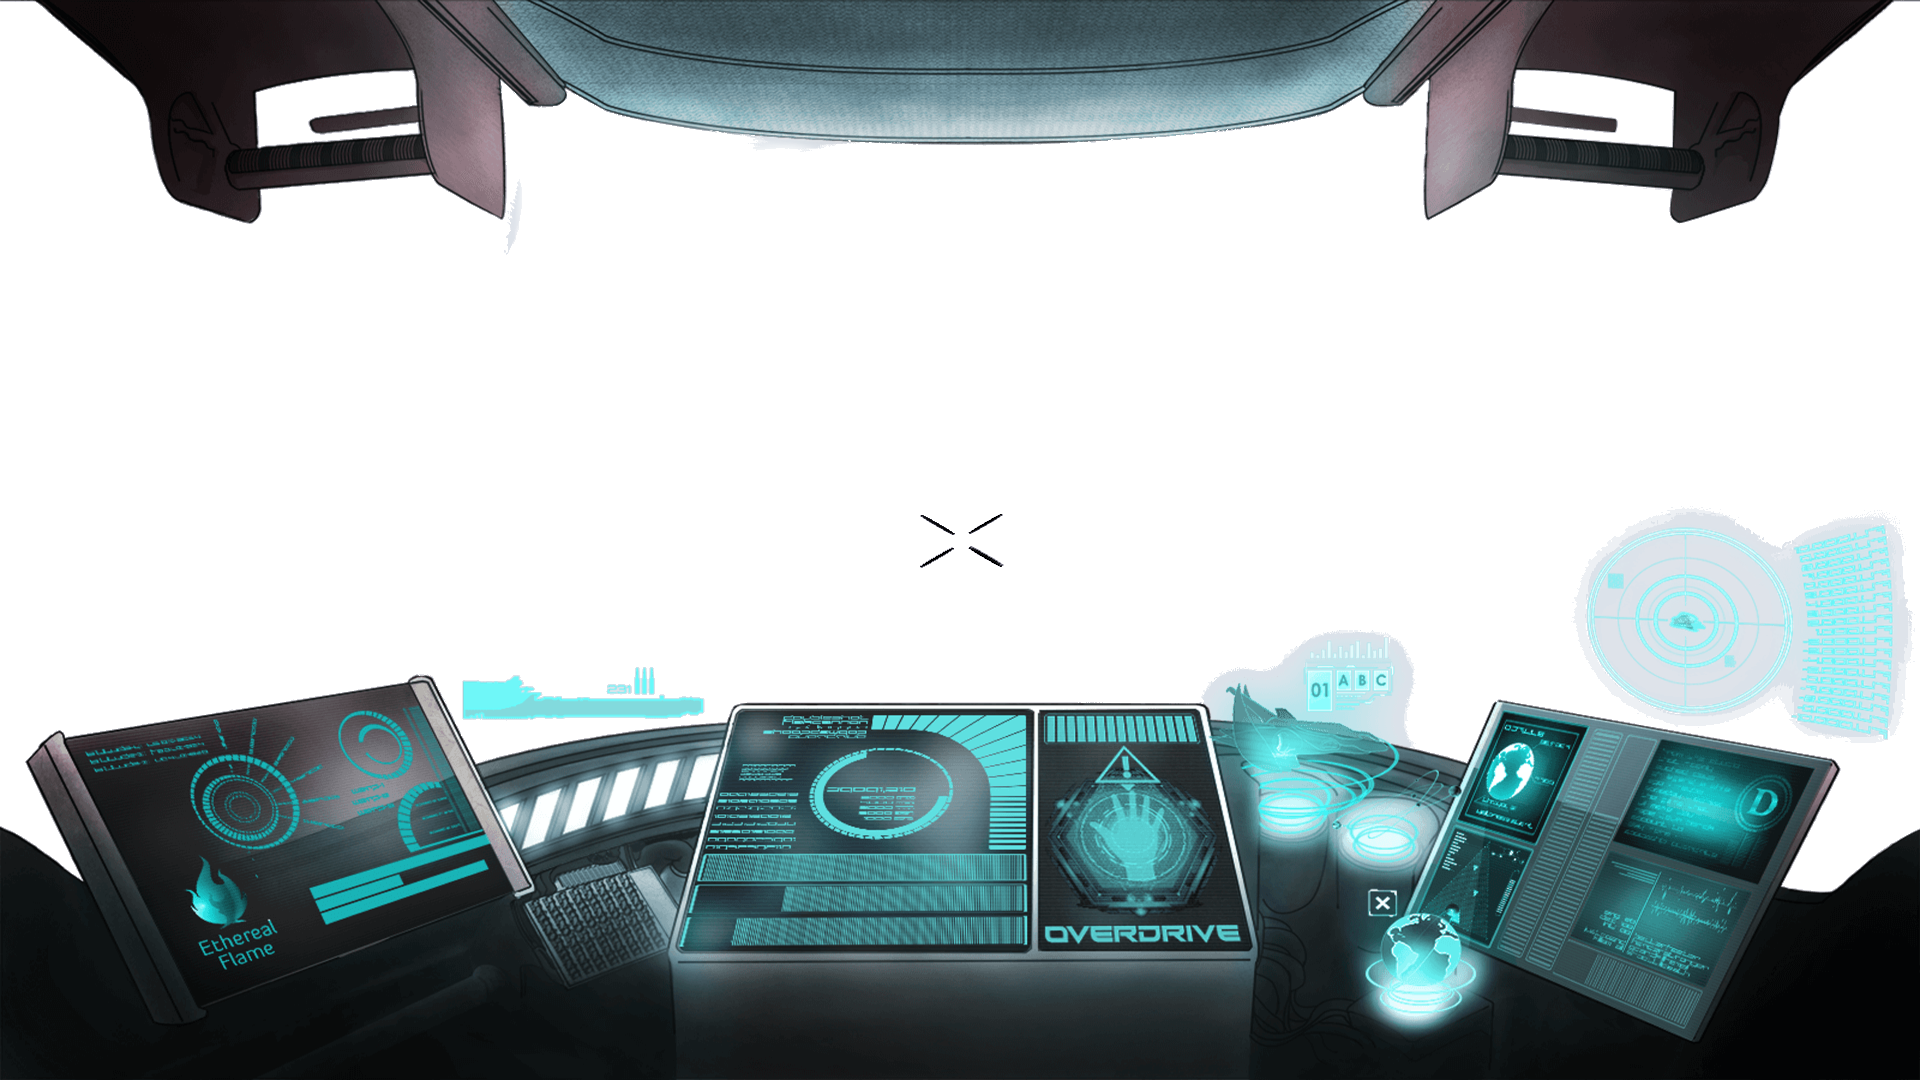
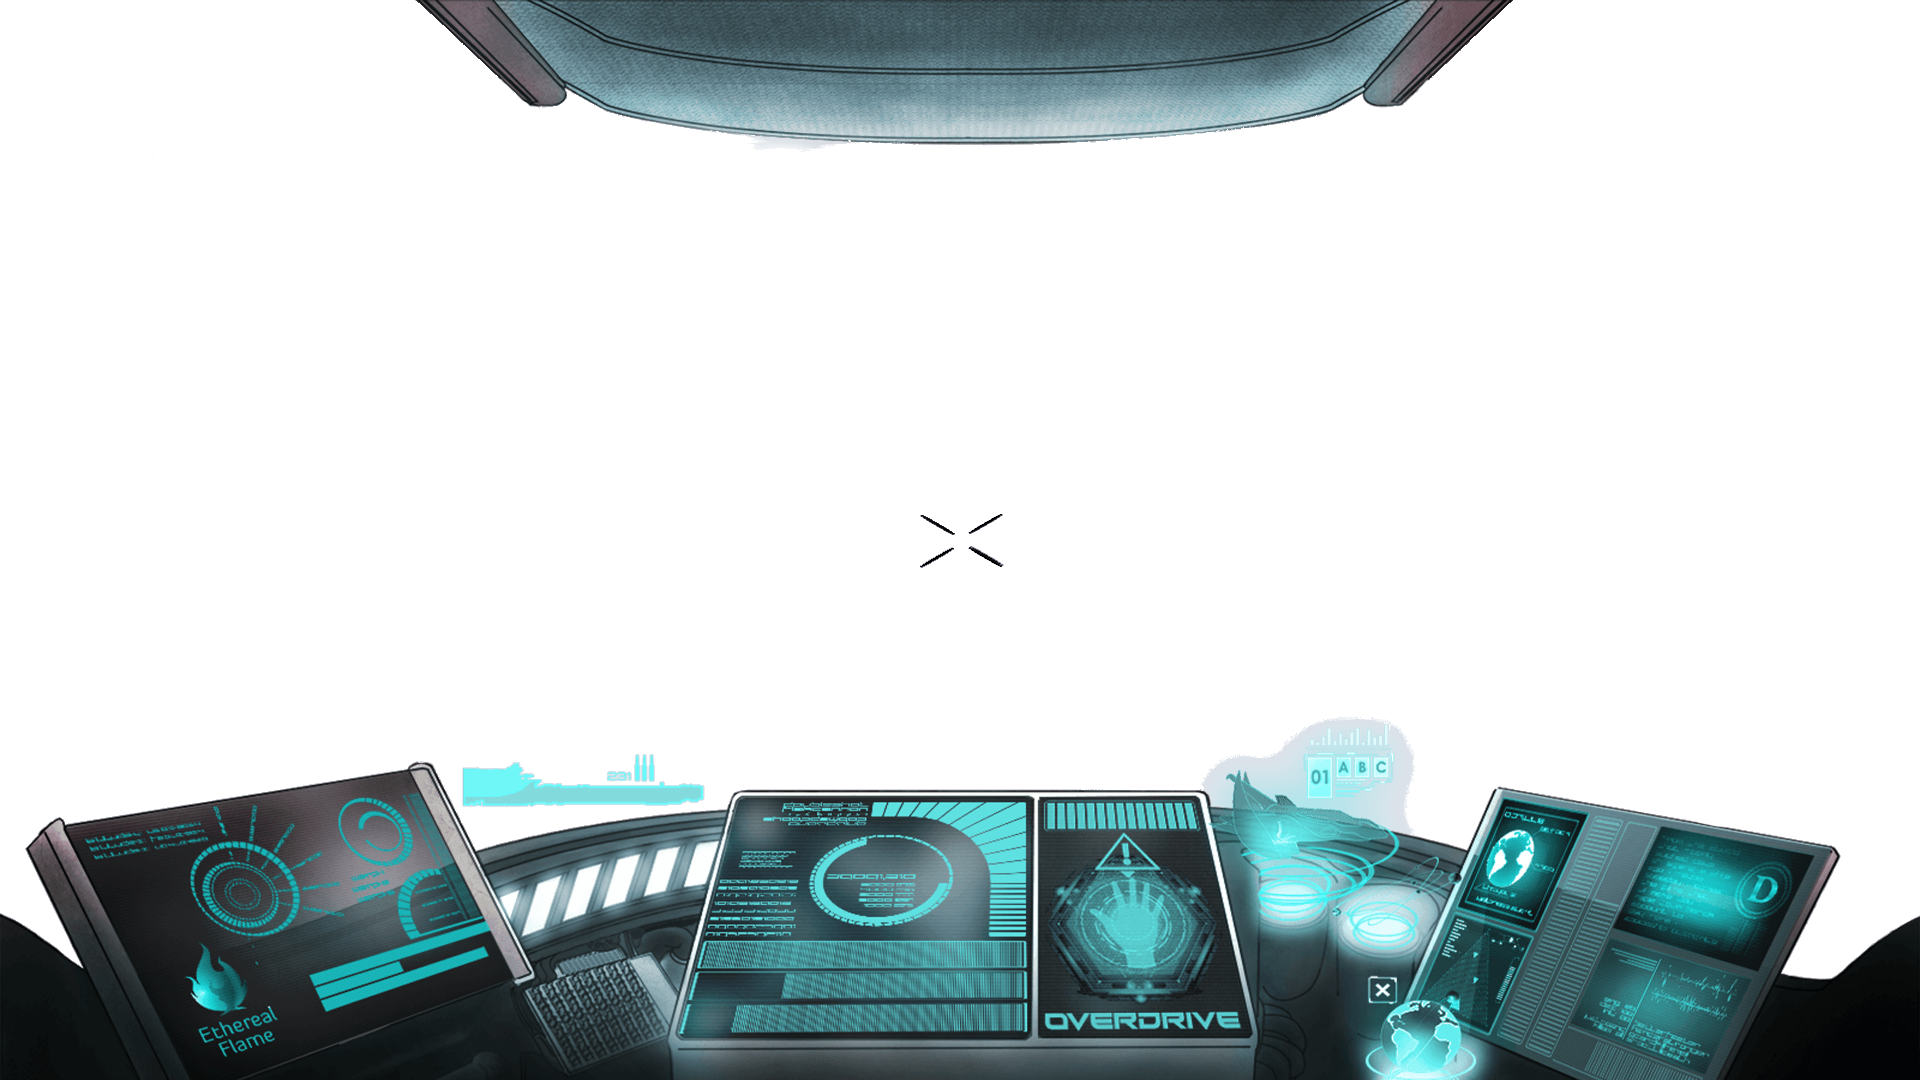
Made the visual elements of the info hud for the ship (people left on Earth, ships killed in total and per current wave, wave number).

diff --git a/app/src/main/java/villealla/com/arinvaders/MainActivity.kt b/app/src/main/java/villealla/com/arinvaders/MainActivity.kt
@@ -10,6 +10,7 @@ import android.view.View
 import com.google.ar.core.TrackingState
 import com.google.ar.sceneform.FrameTime
 import com.google.ar.sceneform.rendering.ModelRenderable
+import kotlinx.android.synthetic.main.fragment_custom_ar.*
 import villealla.com.arinvaders.Fragments.CustomArFragment
 import villealla.com.arinvaders.Fragments.HudFragment
 import villealla.com.arinvaders.Game.GameManager
@@ -44,7 +45,6 @@ class MainActivity : AppCompatActivity() {
         setFragmentListeners()
 
         gameManager = GameManager.instance
-
     } // end onCreate
 
     private fun setFragmentListeners() {

diff --git a/app/src/main/java/villealla/com/arinvaders/Fragments/HudFragment.kt b/app/src/main/java/villealla/com/arinvaders/Fragments/HudFragment.kt
@@ -1,6 +1,5 @@
 package villealla.com.arinvaders.Fragments
 
-
 import android.graphics.BitmapFactory
 import android.os.Bundle
 import android.support.v4.app.Fragment
@@ -8,6 +7,7 @@ import android.view.LayoutInflater
 import android.view.View
 import android.view.ViewGroup
 import android.widget.ImageView
+import kotlinx.android.synthetic.main.fragment_custom_ar.*
 import kotlinx.android.synthetic.main.fragment_hud.*
 import villealla.com.arinvaders.R
 
@@ -26,6 +26,5 @@ class HudFragment : Fragment() {
         hud.scaleType = ImageView.ScaleType.FIT_XY
         hud.adjustViewBounds = true
     }
-
 
 }

diff --git a/app/src/main/java/villealla/com/arinvaders/Game/GameManager.kt b/app/src/main/java/villealla/com/arinvaders/Game/GameManager.kt
@@ -1,5 +1,7 @@
 package villealla.com.arinvaders.Game
 
+import android.content.Context
+import android.view.View
 import villealla.com.arinvaders.ShipManager
 import villealla.com.arinvaders.Sound.Maestro
 
